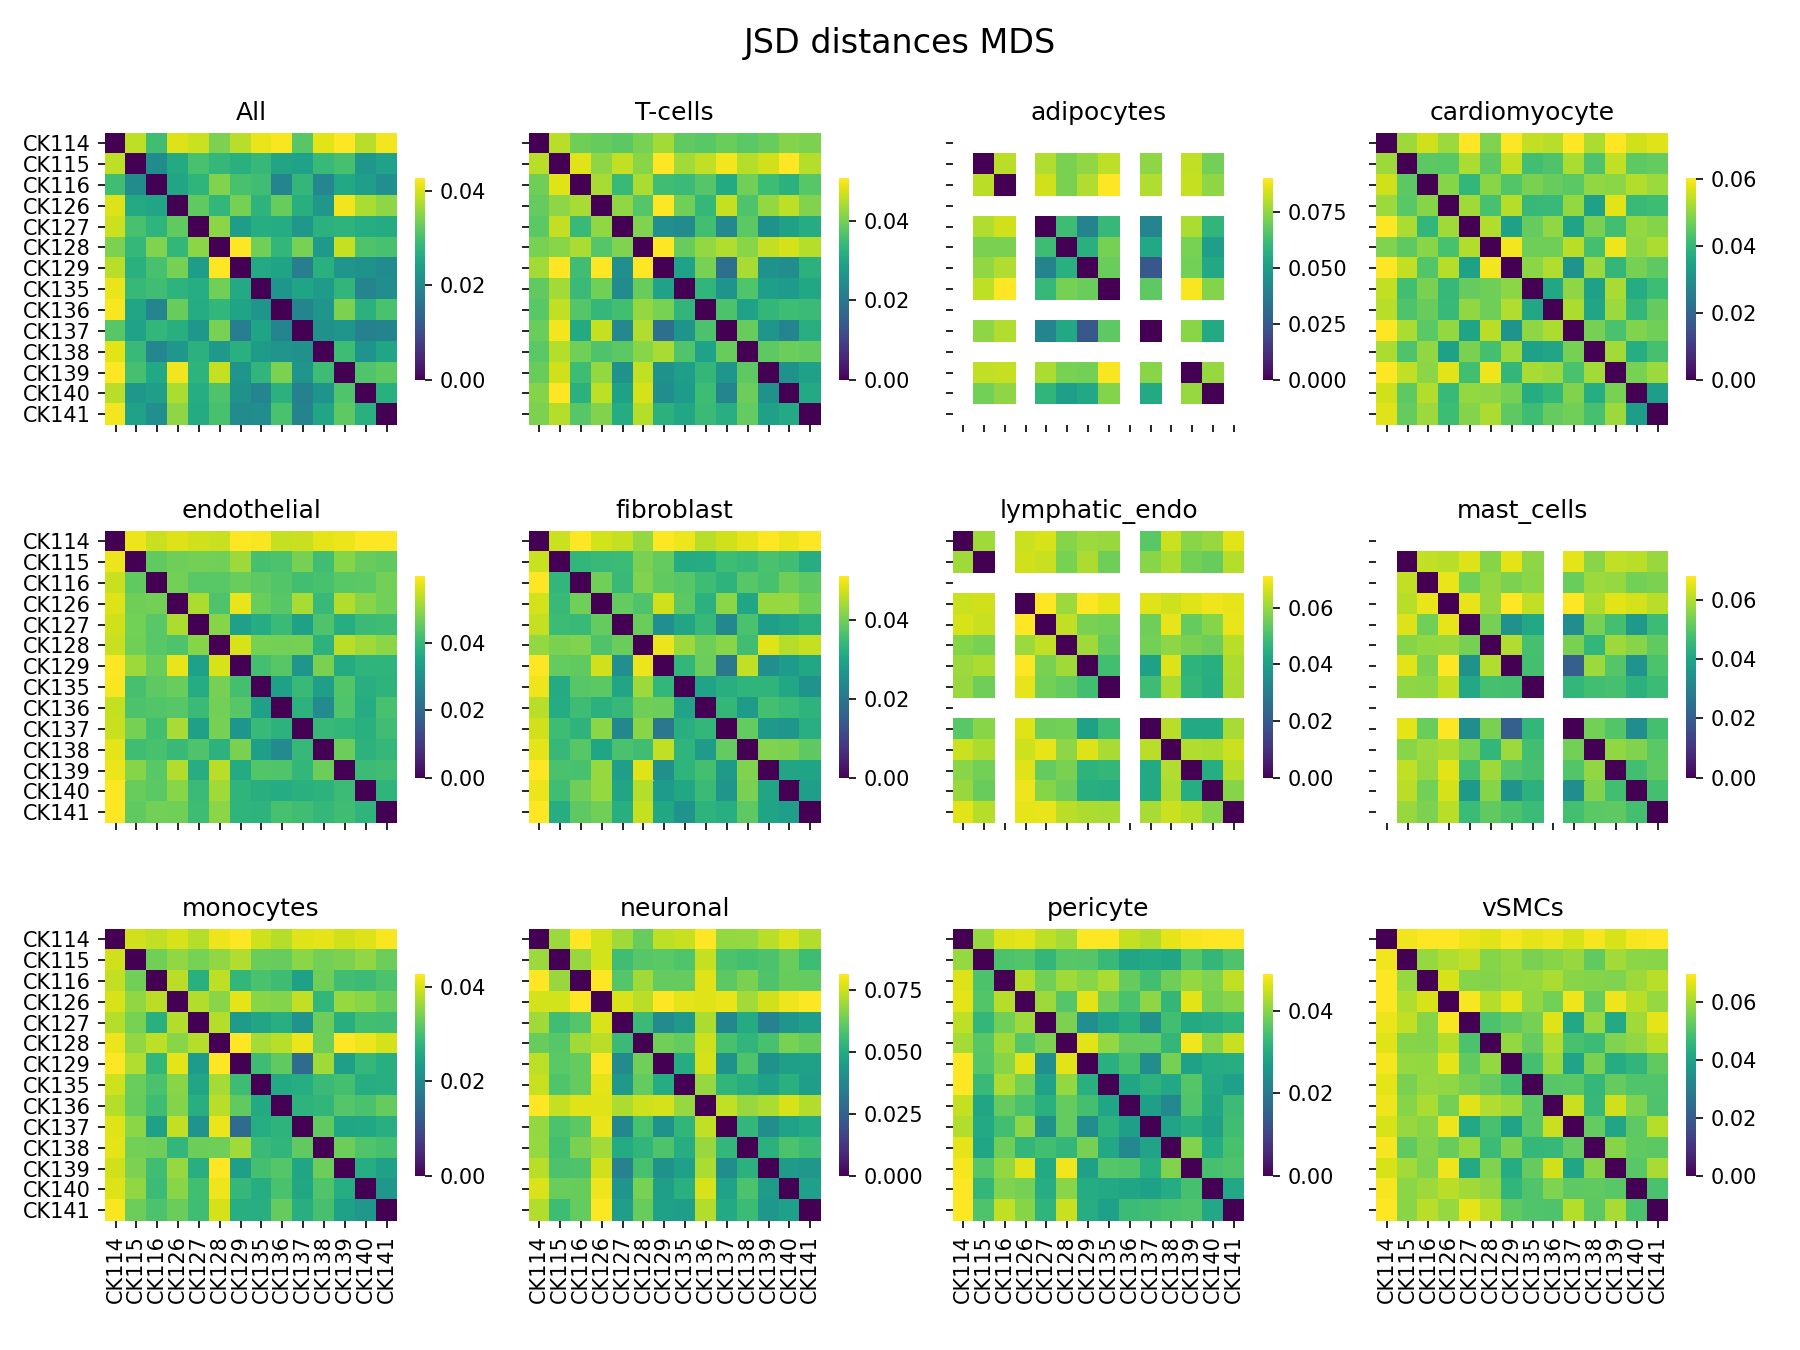
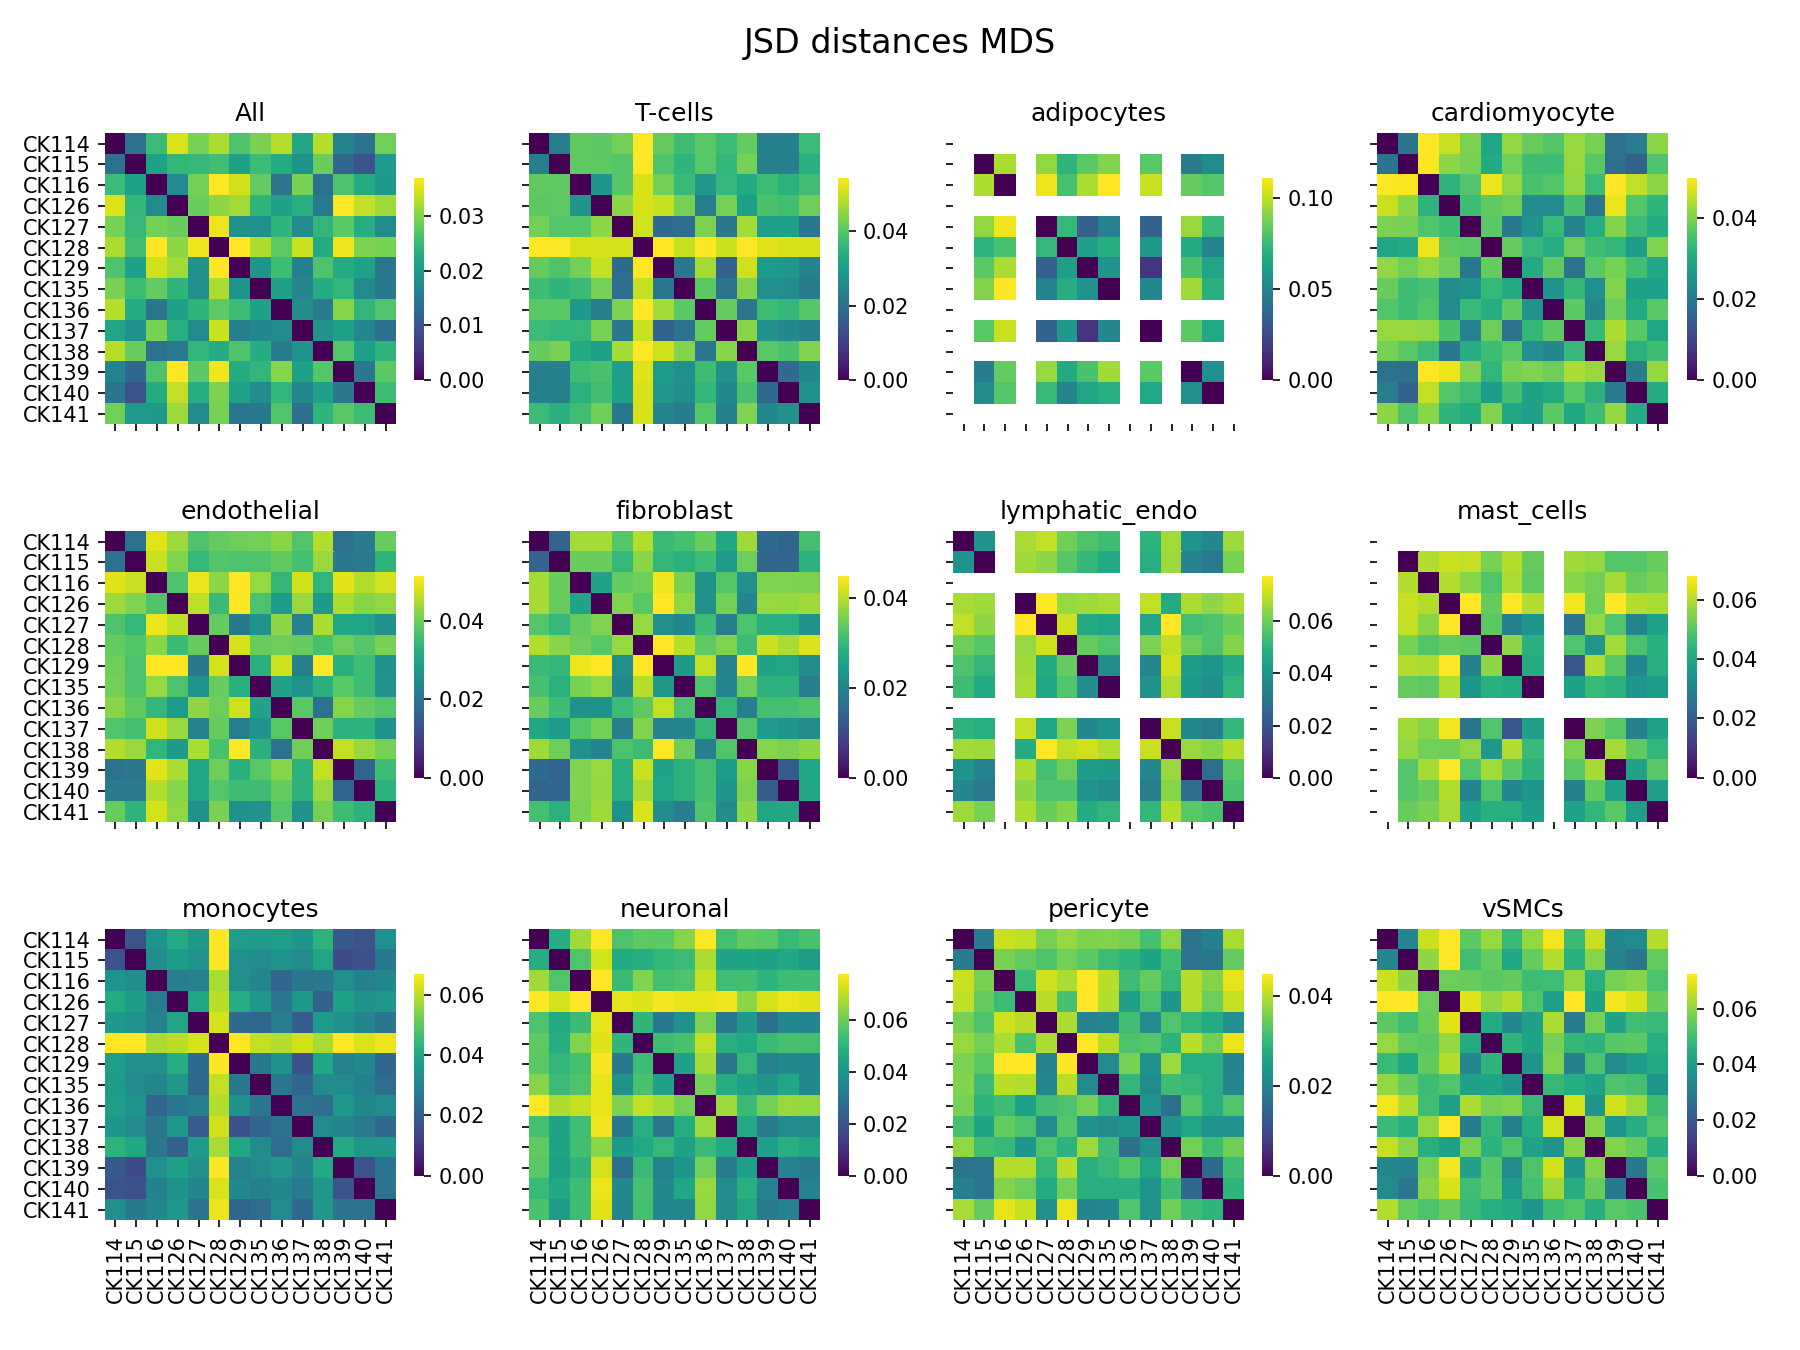
Now distances are done based on DEG

diff --git a/scripts/run_psbulk_deg_plots.py b/scripts/run_psbulk_deg_plots.py
@@ -1,0 +1,57 @@
+import numpy as np
+import pandas as pd
+
+import matplotlib.pyplot as plt
+
+# Read DEG df
+input_path = '../plot_data/deg/deg.csv'
+df = pd.read_csv(input_path)
+
+def plot_volcano(name, df, ax, max_num=np.max(np.abs(df['logfoldchanges'])), s=10, fontsize=12):
+    # Get lfc and pvals
+    lfc = df['logfoldchanges']
+    pvals = -np.log10(df['pvals'])
+    
+    # Mask significant genes
+    msk = (pvals > -np.log10(0.05)) & (np.abs(lfc) > 0.5)
+    
+    # Plot scatter
+    ax.set_title(name)
+    ax.scatter(lfc[~msk], pvals[~msk], c='gray', s=s)
+    ax.scatter(lfc[msk], pvals[msk], c='red', s=s)
+    ax.set_xlim(-max_num, max_num)
+    ax.set_xlabel('Logfoldchanges', fontsize=fontsize)
+    ax.set_ylabel('-log10(pvalue)', fontsize=fontsize)
+    ax.set_box_aspect(1)
+
+
+conditions = np.unique(df['condition'])
+cell_types = np.unique(df['cell_type'])
+
+for condition in conditions:
+    # Define figure
+    fig, axes = plt.subplots(3,4, figsize=(4*3, 3*3) , dpi=150, sharey=True, sharex=True)
+    axes = axes.flatten()
+    fig.suptitle('{0} vs healthy'.format(condition), fontsize=16)
+    axes[0].set_visible(False) 
+    
+    # Get max lfc to set as limit for plot
+    max_lfc = np.max(np.abs(df[df['condition']==condition]['logfoldchanges']))
+    
+    # Volcano for each cell type
+    for ctype,ax in zip(cell_types, axes[1:]):
+        deg = df[(df['condition'] == condition) & (df['cell_type'] == ctype)]
+        if deg.shape[0] == 0:
+            ax.set_visible(False) 
+            continue
+        plot_volcano(ctype, deg, ax, max_lfc)
+    
+    # Save figure
+    fig.tight_layout()
+    fig.set_facecolor('white')
+    fig.savefig('../plots/deg_{0}'.format(condition))
+
+axes[0].set_visible(False) 
+    
+fig.tight_layout()
+fig.set_facecolor('white')

diff --git a/scripts/run_jsdd.py b/scripts/run_jsdd.py
@@ -15,6 +15,9 @@ from scipy.spatial.distance import jensenshannon
 input_path = '../qc_data/pseudobulk.h5ad'
 adata = sc.read_h5ad(input_path)
 
+# Load DEG
+df_deg = pd.read_csv('../plot_data/deg/deg.csv')
+
 # Get list samples and cell types
 samples_ids = np.unique(adata.obs['sample_id'])
 conditions = [adata.obs.condition[adata.obs['sample_id'] == sample_id].tolist()[0] for sample_id in samples_ids]
@@ -33,6 +36,12 @@ for cell_type in cell_types:
     jsd_ds = []
     props = []
     
+    # Get genes that are sign DEG in all conditions for this cell type
+    deg = df_deg[df_deg['cell_type']==cell_type]
+    deg = np.unique([deg[deg['condition']==cond].sort_values('pvals').head(100)['names'].tolist() \
+                     for cond in np.unique(deg['condition'])])
+    print(cell_type, len(deg))
+    
     # Compute JDDS for all combinations
     for sample_a in samples_ids:
         for sample_b in samples_ids:
@@ -44,13 +53,13 @@ for cell_type in cell_types:
                 jsd_d = np.nan
                 w = 0
             else:
-                x_a = sub_adata.X[msk_a].toarray()[0]
-                x_b = sub_adata.X[msk_b].toarray()[0]
+                # Get sample objects
+                x_a = sub_adata[msk_a]
+                x_b = sub_adata[msk_b]
                 
-                # Get only genes that have at least some shared expression
-                msk = (~(x_a == 0)) & (~(x_b == 0))
-                x_a = x_a[msk]
-                x_b = x_b[msk]
+               # Filter by DEG
+                x_a = x_a[:,deg].X.toarray()[0]
+                x_b = x_b[:,deg].X.toarray()[0]
                 
                 # Get min proportion
                 w_a = sub_adata.obs['cell_prop'][msk_a]

diff --git a/scripts/run_psbulk_deg.py b/scripts/run_psbulk_deg.py
@@ -1,0 +1,44 @@
+import scanpy as sc
+import numpy as np
+import pandas as pd
+
+import os
+
+# Read AnnData object
+input_path = '../qc_data/pseudobulk.h5ad'
+adata = sc.read_h5ad(input_path) 
+
+# Get conditions and remove healthy
+conditions = adata.obs['condition'][adata.obs['condition'] != 'healthy']
+
+# For each condition and cell type compute DEG and store them in a df
+dfs = []
+for condition in np.unique(conditions):
+    for ctype in np.unique(adata.obs['cell_type']):
+        # Filter by cell type
+        subadata = adata[(adata.obs['cell_type'] == ctype)]
+        # Drop conditions with only one sample
+        subadata = subadata[subadata.obs["condition"].duplicated(keep=False)]
+        # Drop genes that have 0 expression
+        subadata = subadata[:,~(subadata.X == 0).any(axis=0)]
+
+        # Skip if no samples are available
+        if np.sum(subadata.obs['condition'] == condition) == 0:
+            continue
+
+        # Compute DEG
+        sc.tl.rank_genes_groups(subadata, 'condition', reference='healthy', method='t-test')
+
+        # Get df and store it
+        df = sc.get.rank_genes_groups_df(subadata, condition)
+        df['cell_type'] = ctype
+        df['condition'] = condition
+        df.drop('scores', axis=1, inplace=True)
+        dfs.append(df)
+
+# Merge all dfs
+df = pd.concat(dfs)
+
+# Save
+os.makedirs('../plot_data/deg/', exist_ok=True)
+df.to_csv('../plot_data/deg/deg.csv', index=False)

diff --git a/scripts/run_angdist.py b/scripts/run_angdist.py
@@ -27,6 +27,9 @@ def get_group_sum_dis(sub_adata):
 input_path = '../qc_data/pseudobulk.h5ad'
 adata = sc.read_h5ad(input_path)
 
+# Load DEG
+df_deg = pd.read_csv('../plot_data/deg/deg.csv')
+
 conditions = np.unique(adata.obs['condition'])
 cell_types = np.unique(adata.obs['cell_type'])
 
@@ -42,10 +45,14 @@ for i,cond_a in enumerate(conditions):
                 adata_a = adata[(adata.obs['condition']==cond_a)&(adata.obs['cell_type']==cell_type)]
                 adata_b = adata[(adata.obs['condition']==cond_b)&(adata.obs['cell_type']==cell_type)]
                 
-                # Get all genes that have at least some expression
-                msk = (~(adata_a.X == 0).any(axis=0)) & (~(adata_b.X == 0).any(axis=0))
-                adata_a = adata_a[:,msk]
-                adata_b = adata_b[:,msk]
+                # Get genes that are sign DEG in all conditions for this cell type
+                deg = df_deg[df_deg['cell_type']==cell_type]
+                deg = np.unique([deg[deg['condition']==cond].sort_values('pvals').head(100)['names'].tolist() \
+                                 for cond in np.unique(deg['condition'])])
+
+                print(cell_type, len(deg))
+                adata_a = adata_a[:,deg]
+                adata_b = adata_b[:,deg]
                 
                 #  Compute mean within groups as norm factor
                 norm = (get_group_sum_dis(adata_a) + get_group_sum_dis(adata_b)) / \

diff --git a/scripts/run_angdist_plots.py b/scripts/run_angdist_plots.py
@@ -9,7 +9,7 @@ import seaborn as sns
 plot_data = pickle.load(open("../plot_data/angdist/plot_data.pkl", "rb"))
 
 fig, axes = plt.subplots(2,3, figsize=(12,9), sharey=True, dpi=150)
-fig.suptitle('Transcriptomical shifts', fontsize=15)
+fig.suptitle('Transcriptomic shifts', fontsize=15)
 axes = axes.flatten()
 i = 0
 for k,df in plot_data.items():

diff --git a/README.md b/README.md
@@ -11,6 +11,7 @@ bbknn
 leidenalg
 scCODA
 seaborn
+gseapy
 ```
 
 Get dissociation genes:
